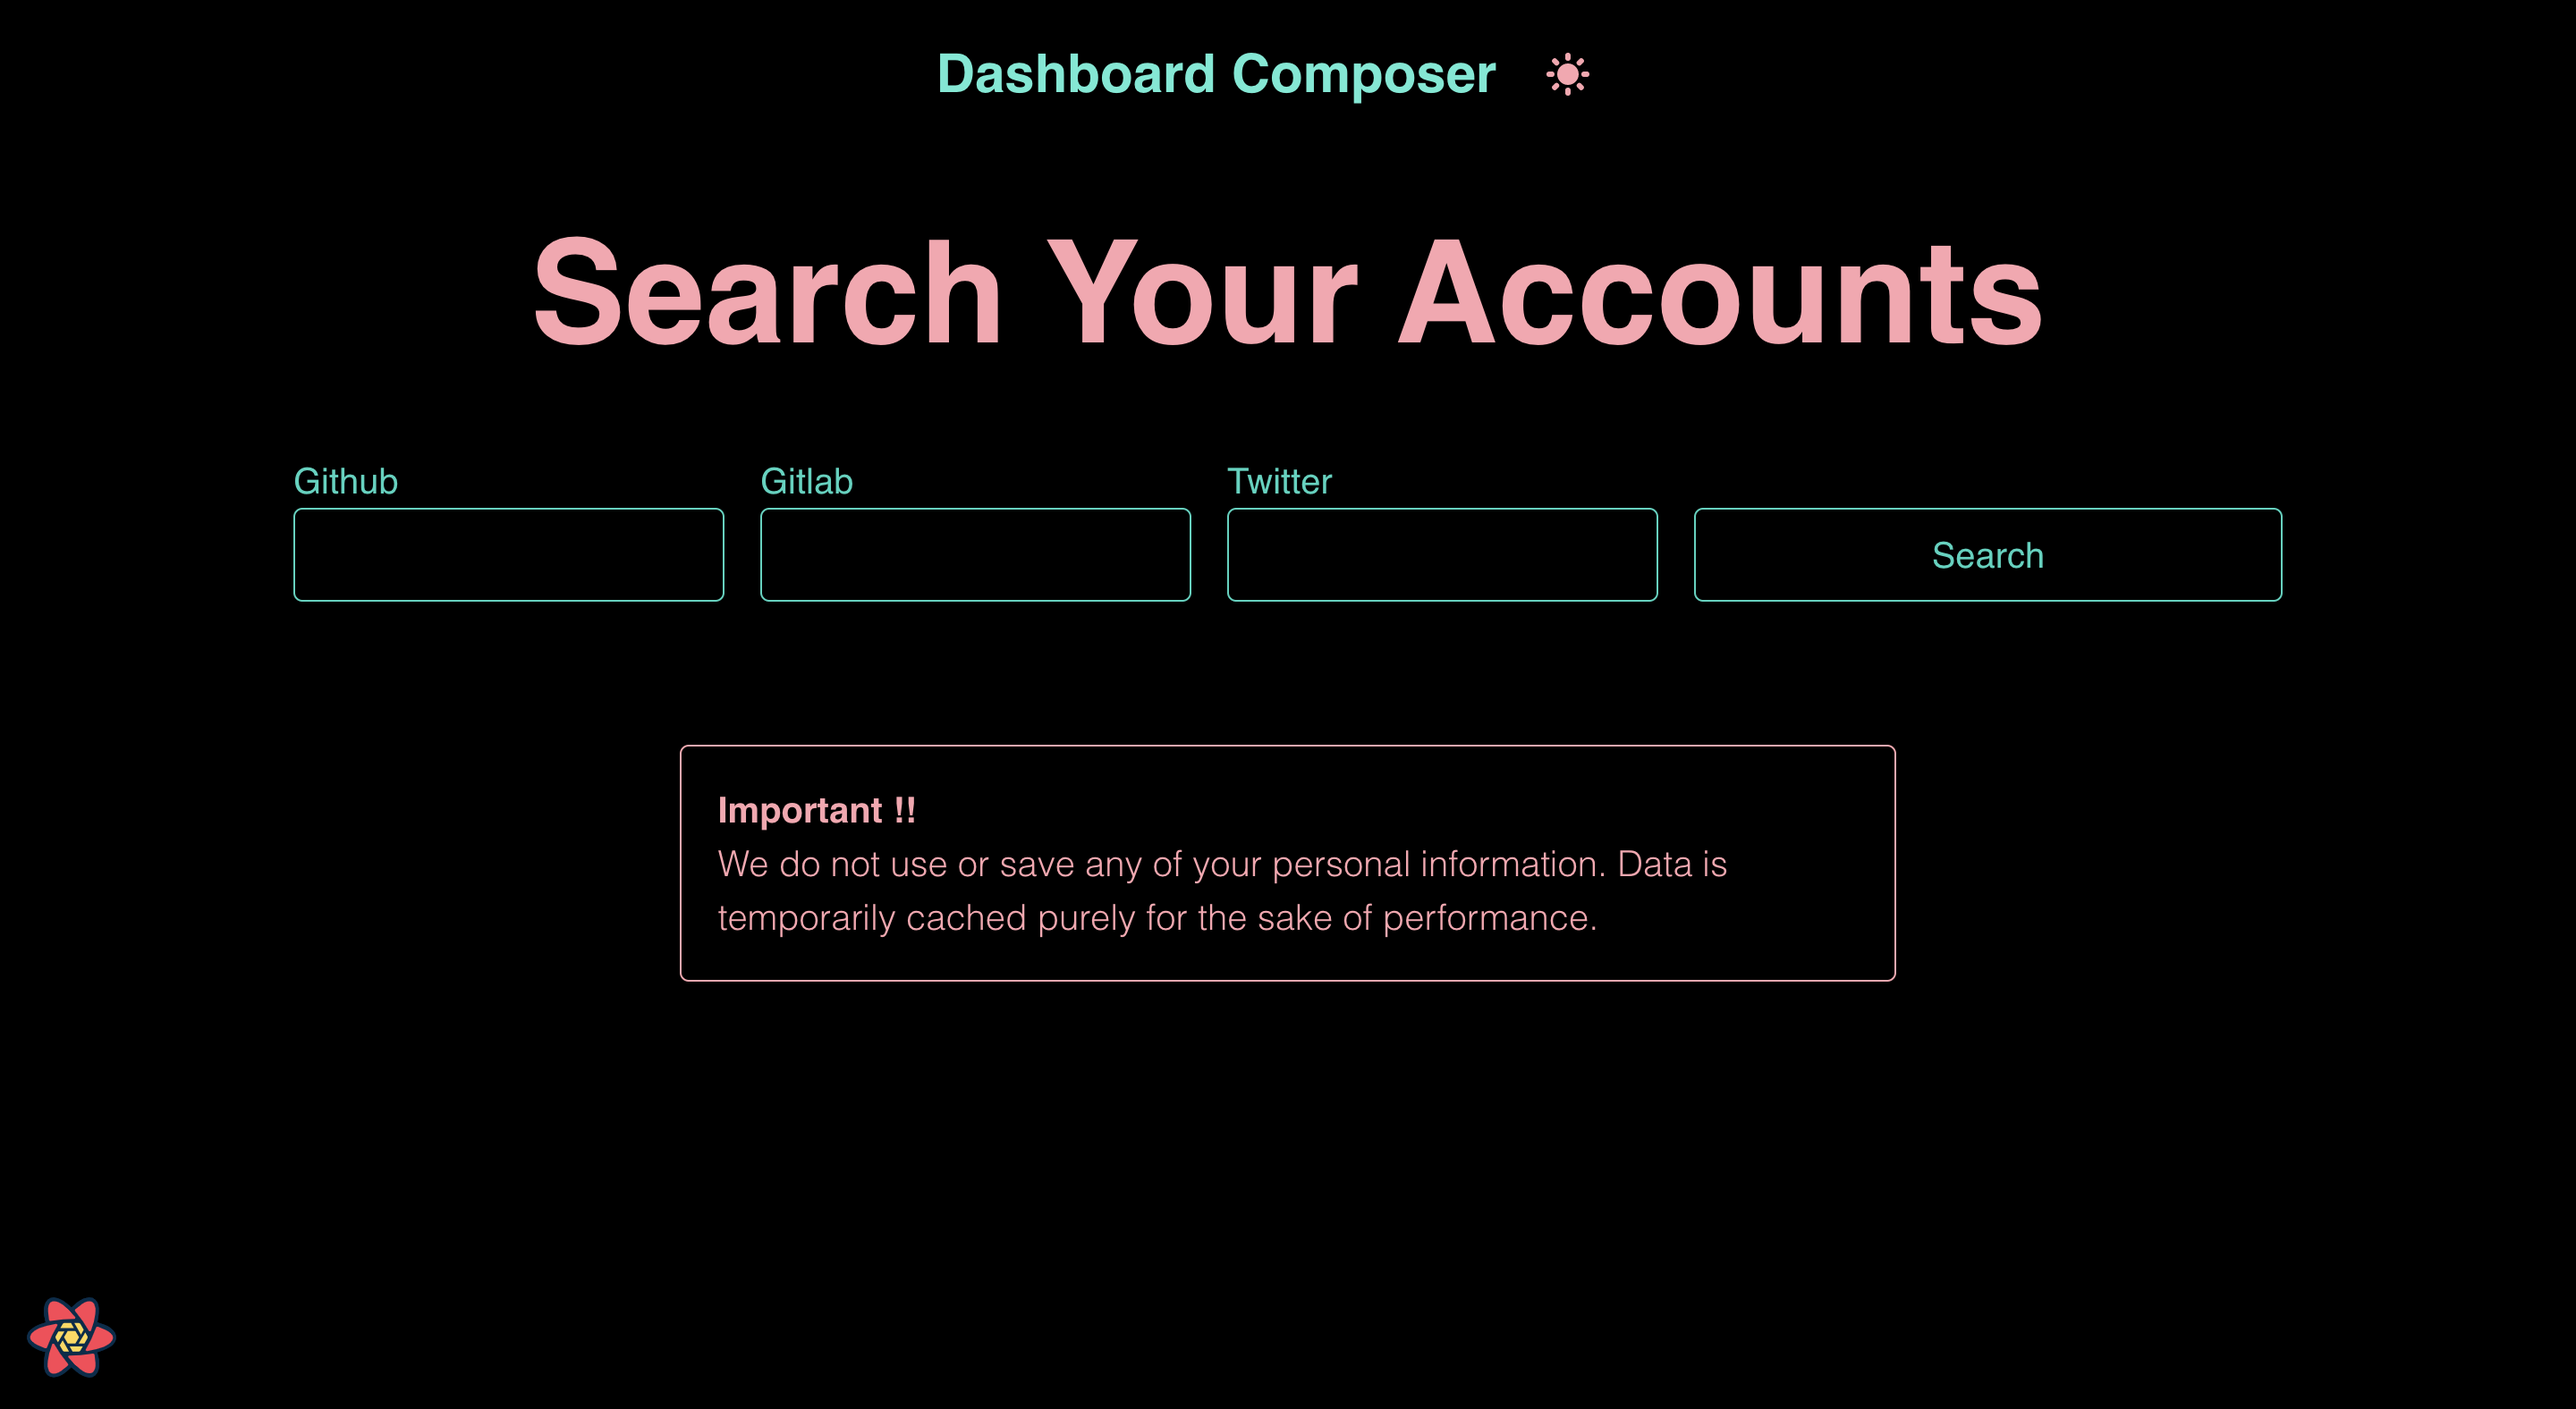
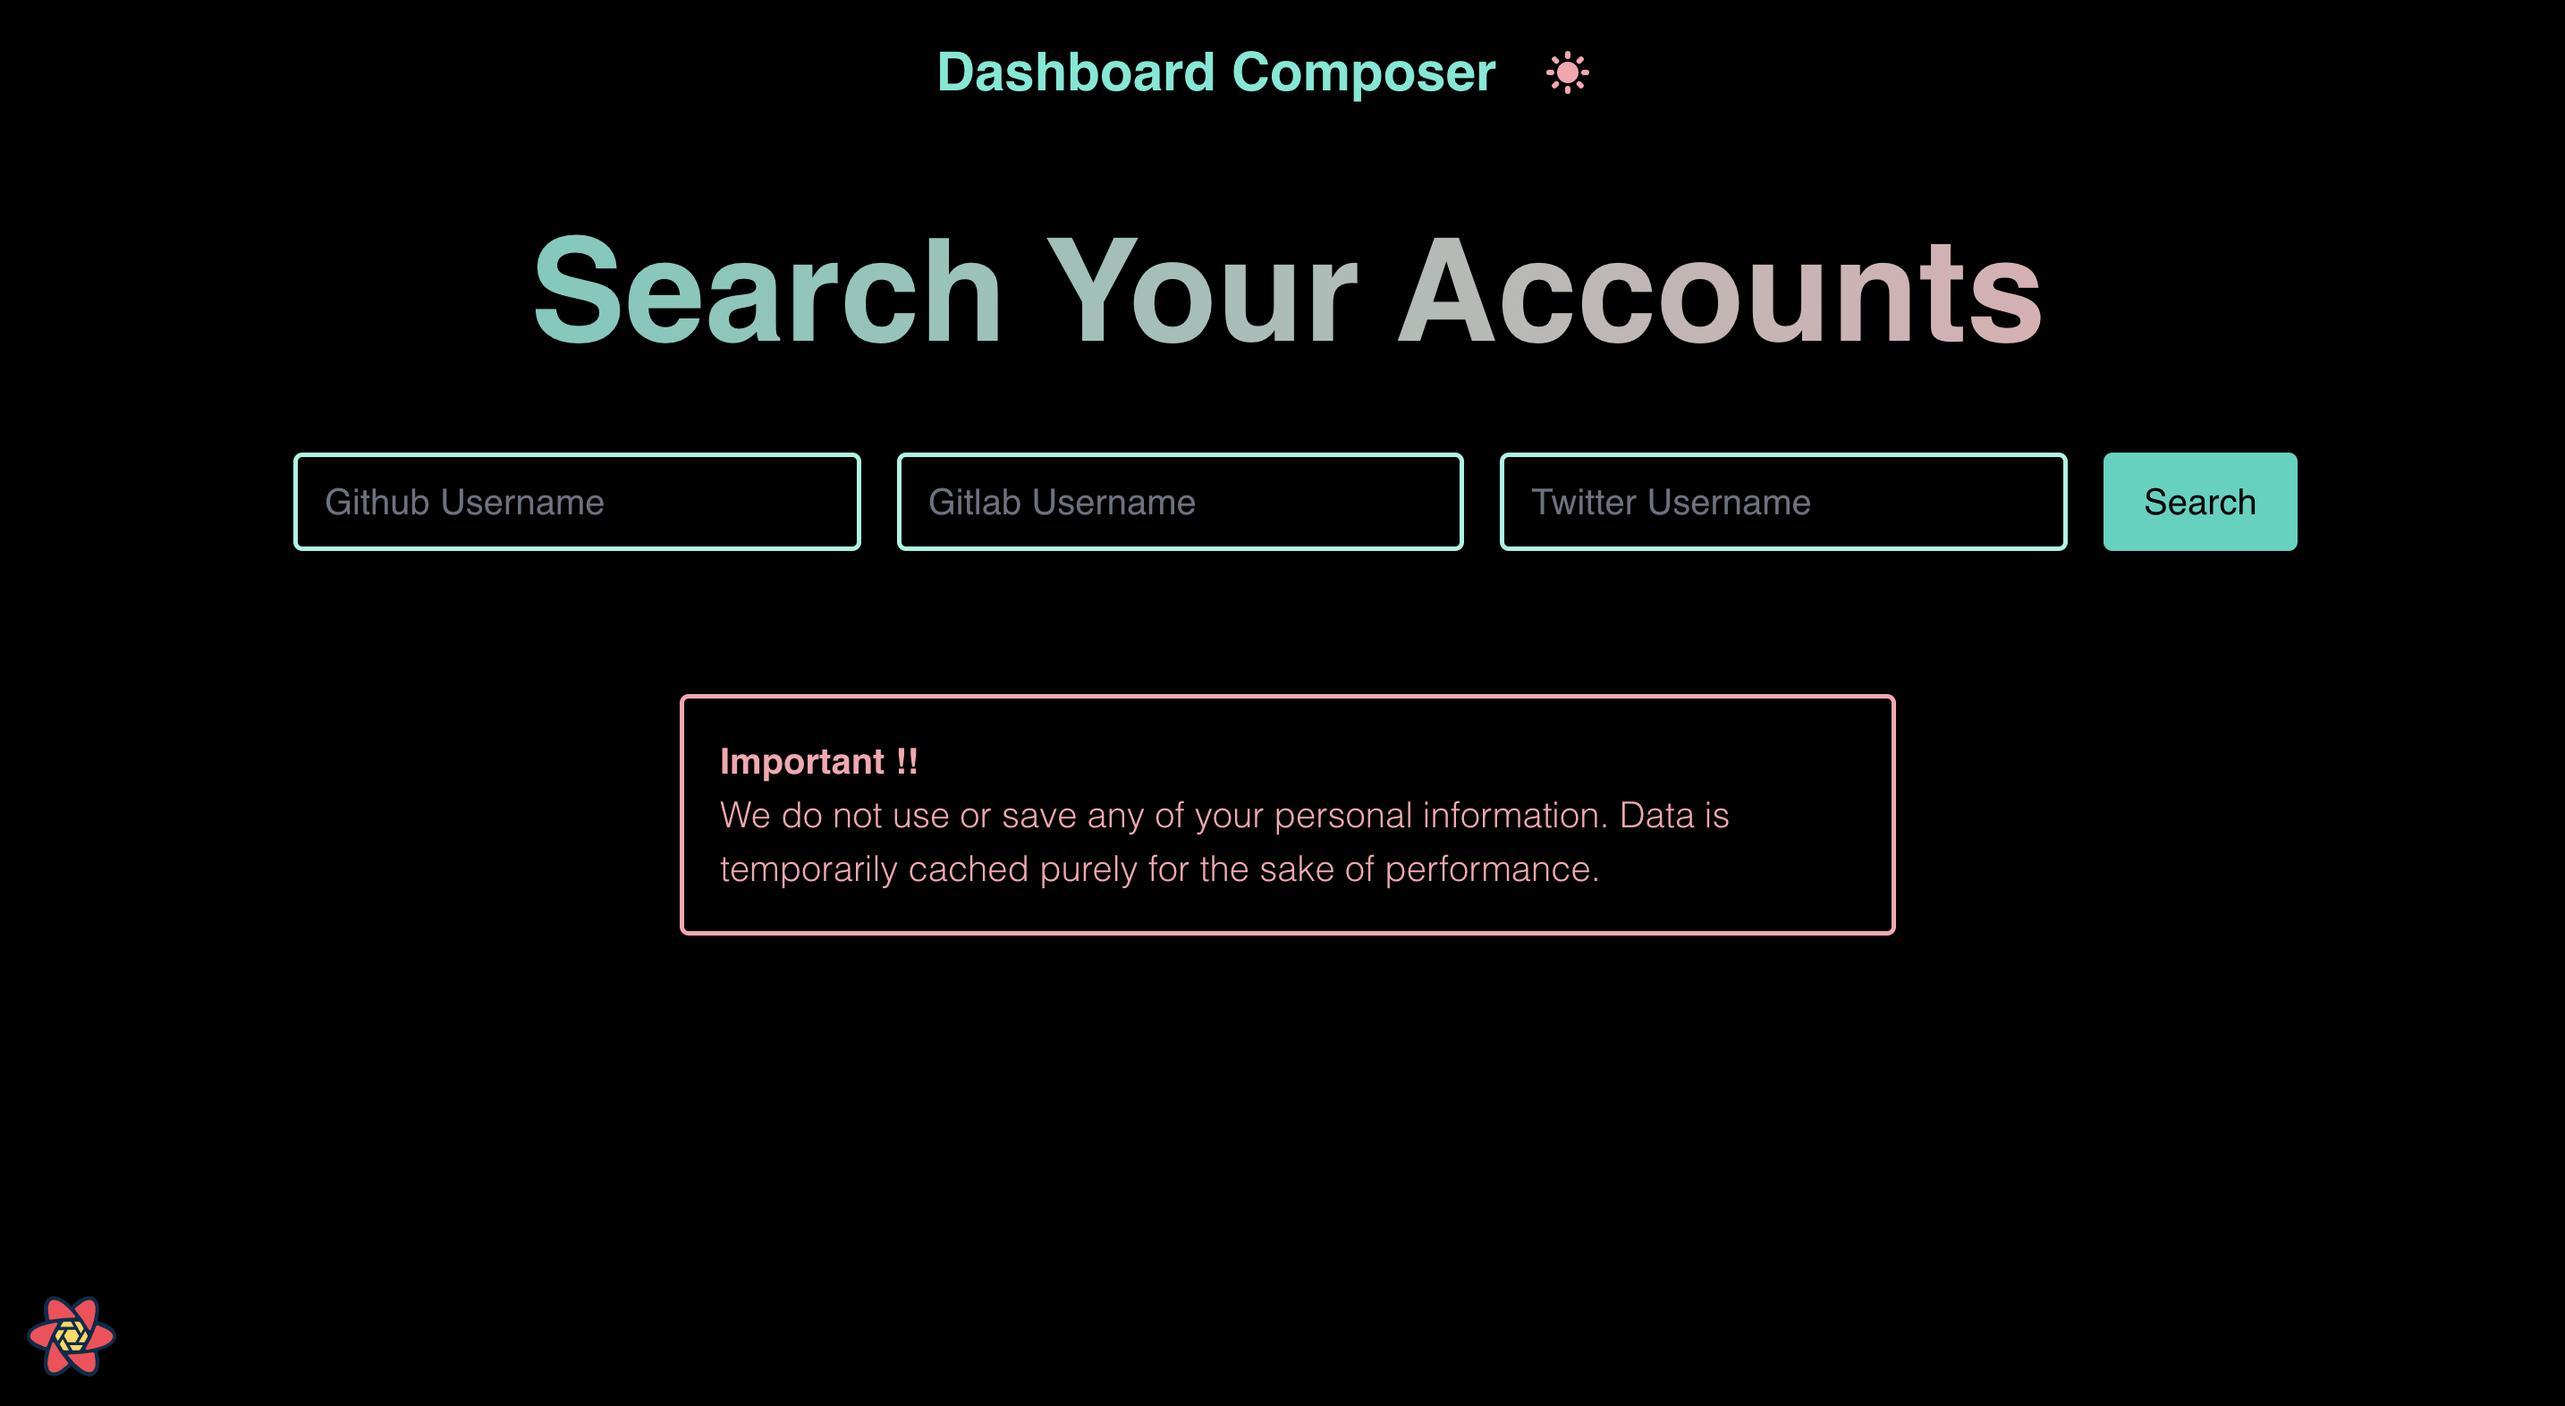
styling updates

diff --git a/src/client/components/SearchForm/SearchForm.tsx b/src/client/components/SearchForm/SearchForm.tsx
@@ -64,33 +64,33 @@ const SearchForm = () => {
       onSubmit={handleSubmit(async (data) => await onSubmit(data))}
     >
       <div className="flex flex-grow flex-col px-2 pb-2 md:pb-0">
-        <label className="text-indigo-700 dark:text-teal-400">Github</label>
         <input
           type="text"
-          className="border-1 appearance-none rounded border border-indigo-700 bg-white text-indigo-700 focus:border-teal-400 dark:border-teal-400 dark:bg-black dark:text-teal-400"
+          className="appearance-none rounded border-2 border-indigo-400 bg-white text-indigo-700 focus:border-indigo-700 focus:outline-none focus:ring-indigo-700 dark:border-teal-200 dark:bg-black dark:text-teal-400 dark:focus:border-teal-400  dark:focus:ring-teal-400"
+          placeholder="Github Username"
           {...register("github")}
         />
       </div>
       <div className="flex flex-grow flex-col px-2 pb-2 md:pb-0">
-        <label className="text-indigo-700 dark:text-teal-400">Gitlab</label>
         <input
           type="text"
-          className="border-1 appearance-none rounded border border-indigo-700 bg-white text-indigo-700 focus:border-teal-400 dark:border-teal-400 dark:bg-black dark:text-teal-400"
+          className="appearance-none rounded border-2 border-indigo-400 bg-white text-indigo-700 focus:border-indigo-700 focus:outline-none focus:ring-indigo-700 dark:border-teal-200 dark:bg-black dark:text-teal-400 dark:focus:border-teal-400  dark:focus:ring-teal-400"
+          placeholder="Gitlab Username"
           {...register("gitlab")}
         />
       </div>
       <div className="flex flex-grow flex-col px-2 pb-2 md:pb-0">
-        <label className="text-indigo-700 dark:text-teal-400">Twitter</label>
         <input
           type="text"
-          className="border-1 appearance-none rounded border border-indigo-700 bg-white text-indigo-700 focus:border-teal-400 dark:border-teal-400 dark:bg-black dark:text-teal-400"
+          className="appearance-none rounded border-2 border-indigo-400 bg-white text-indigo-700 focus:border-indigo-700 focus:outline-none focus:ring-indigo-700 dark:border-teal-200 dark:bg-black dark:text-teal-400 dark:focus:border-teal-400  dark:focus:ring-teal-400"
+          placeholder="Twitter Username"
           {...register("twitter")}
         />
       </div>
       <div className="flex w-full px-2 pt-4 md:w-24 md:py-0 md:pl-0 md:pr-2">
         <button
           type="submit"
-          className="border-1 w-full rounded border border-indigo-700 bg-white px-4 py-2 text-indigo-700 hover:bg-indigo-700 hover:text-white dark:border-teal-400 dark:bg-black dark:text-teal-400 dark:hover:bg-teal-400 dark:hover:text-black md:mt-0 md:ml-2 md:self-end"
+          className="w-full rounded border-2 border-indigo-700 bg-indigo-700 px-4 py-2 text-white dark:border-teal-400 dark:bg-teal-400 dark:text-black  md:mt-0 md:ml-2 md:self-end"
         >
           Search
         </button>

diff --git a/src/client/pages/home.tsx b/src/client/pages/home.tsx
@@ -18,7 +18,7 @@ const Home = () => {
         mainPanel={
           <div className="flex w-screen flex-col">
             <div className="p-2 md:p-4">
-              <h1 className=" text-center text-3xl font-black text-fuchsia-700 dark:text-rose-300 md:text-6xl">
+              <h1 className=" text-8xl bg-gradient-to-r from-fuchsia-700 to-indigo-700 bg-clip-text text-center text-3xl font-black text-transparent dark:from-teal-400 dark:to-rose-300 md:text-6xl">
                 Search Your Accounts
               </h1>
             </div>

diff --git a/src/client/components/Gitlab/Gitlab.tsx b/src/client/components/Gitlab/Gitlab.tsx
@@ -4,7 +4,7 @@ const Gitlab = ({ gitlabData }) => {
   const { username, followers, public_repos, total_stars } = gitlabData ?? {};
 
   return (
-    <div className="my-1 h-full w-full rounded border border-indigo-700 bg-white p-2 dark:border-teal-300 dark:bg-black md:p-4">
+    <div className="my-1 h-full w-full rounded border-2 border-indigo-700 bg-white p-2 dark:border-teal-300 dark:bg-black md:p-4">
       <ul>
         <li className="flex justify-between">
           <p className="text-left text-indigo-700 dark:text-teal-300">

diff --git a/src/client/components/GitHub/Github.tsx b/src/client/components/GitHub/Github.tsx
@@ -4,7 +4,7 @@ const Github = ({ githubData }) => {
   const { login, followers, public_repos, total_stars } = githubData ?? {};
 
   return (
-    <div className="my-1 h-full w-full rounded border border-indigo-700 bg-white p-2 dark:border-teal-300 dark:bg-black md:p-4">
+    <div className="my-1 h-full w-full rounded border-2 border-indigo-700 bg-white p-2 dark:border-teal-300 dark:bg-black md:p-4">
       <ul>
         <li className="flex justify-between">
           <p className="text-left text-indigo-700 dark:text-teal-300">

diff --git a/src/client/components/Header/Header.tsx b/src/client/components/Header/Header.tsx
@@ -10,7 +10,7 @@ const Header = ({ headerData, clipper }: HeaderProps) => {
   const { title } = headerData ?? {};
   return (
     <header className="flex w-screen items-center justify-between p-2 md:justify-center md:p-4">
-      <h3 className="text-lg font-black text-indigo-700 dark:text-teal-300 md:px-0 md:text-2xl">
+      <h3 className="text-lg font-black text-fuchsia-700 dark:text-teal-300 md:px-0 md:text-2xl">
         {title ? title : "..."}
       </h3>
       <div className="md:px-4">

diff --git a/src/client/components/Twitter/Twitter.tsx b/src/client/components/Twitter/Twitter.tsx
@@ -10,7 +10,7 @@ const Twitter = ({ twitterData }) => {
   } = twitterData ?? {};
 
   return (
-    <div className="my-1 h-full w-full rounded border border-indigo-700 bg-white p-2 dark:border-teal-300 dark:bg-black md:p-4">
+    <div className="my-1 h-full w-full rounded border-2 border-indigo-700 bg-white p-2 dark:border-teal-300 dark:bg-black md:p-4">
       <ul>
         <li className="flex justify-between">
           <p className="text-left text-indigo-700 dark:text-teal-300">

diff --git a/src/client/components/Message/Message.tsx b/src/client/components/Message/Message.tsx
@@ -7,7 +7,7 @@ type MessageProps = {
 
 export const Message = ({ title, content }: MessageProps) => {
   return (
-    <div className="w-full rounded border border-fuchsia-700 bg-white p-4 dark:border-rose-300 dark:bg-black">
+    <div className="w-full rounded border-2 border-fuchsia-700 bg-white p-4 dark:border-rose-300 dark:bg-black">
       <p className="font-extrabold text-fuchsia-700 dark:text-rose-300">
         {title}
       </p>

diff --git a/src/server/api/details/routes/gitlab.ts b/src/server/api/details/routes/gitlab.ts
@@ -83,8 +83,6 @@ async function handler(req: Request, res: Response) {
           return;
         }
 
-        console.log(result[0]);
-
         let totalStars = 0;
 
         result[0]?.repos?.map((repo) => {
